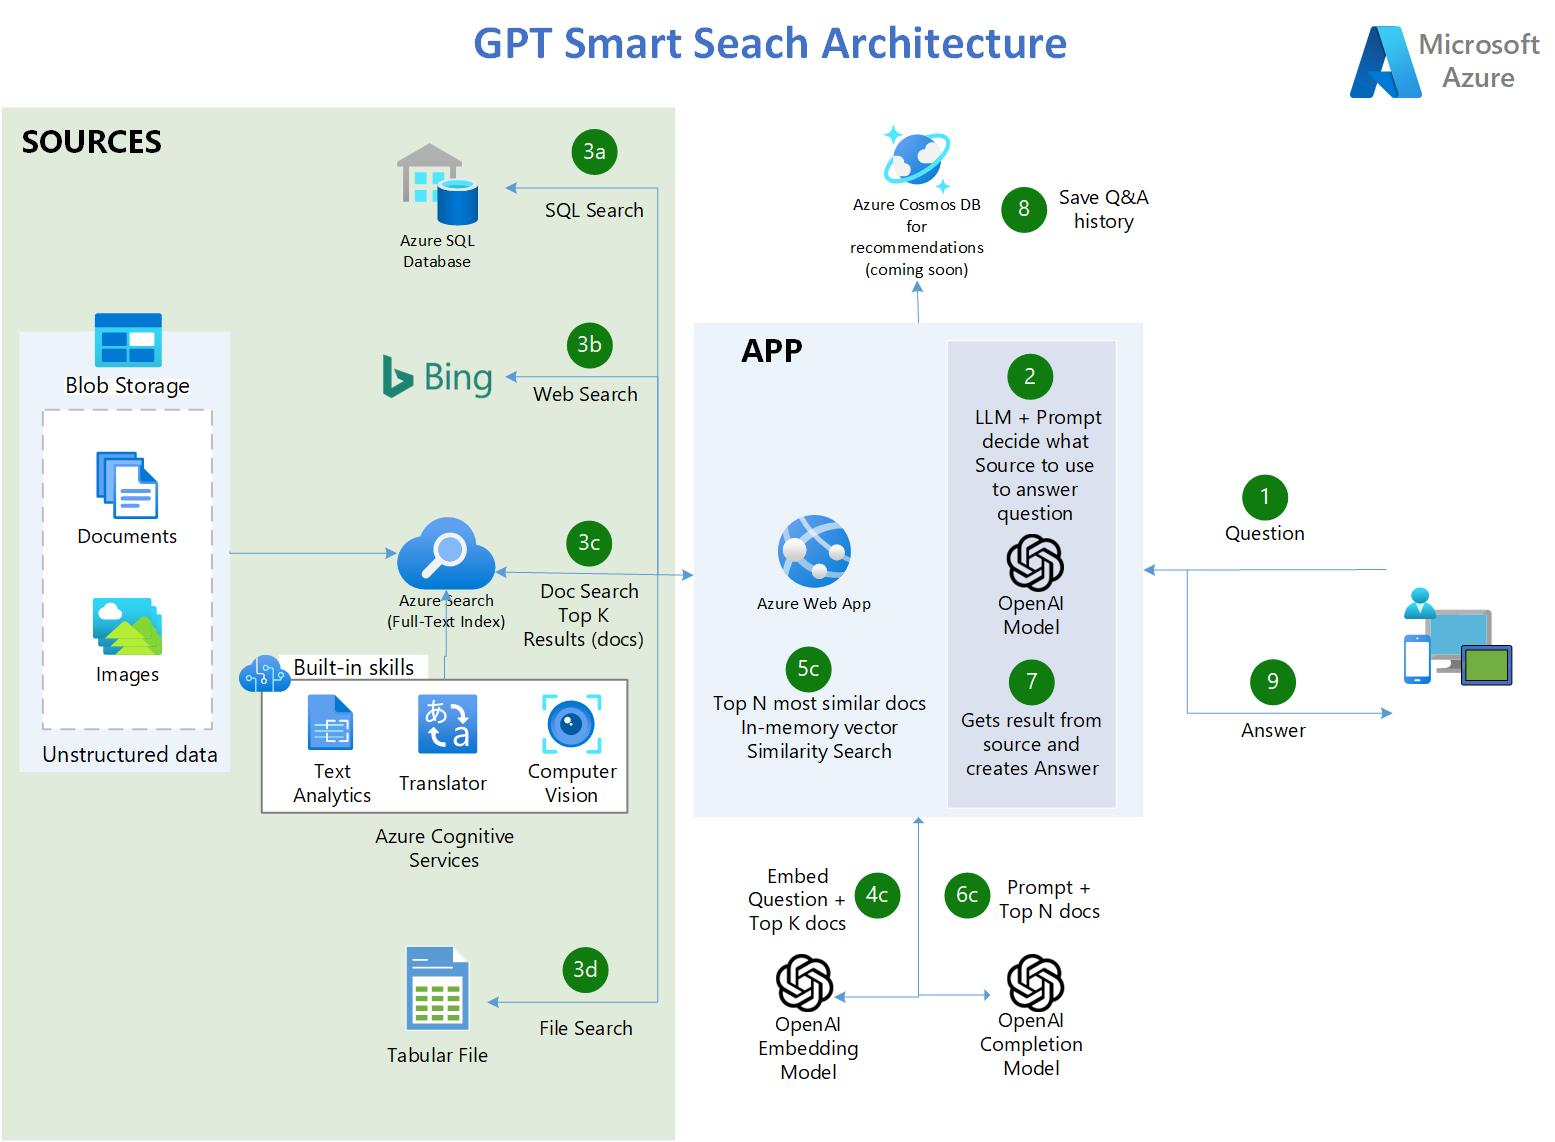
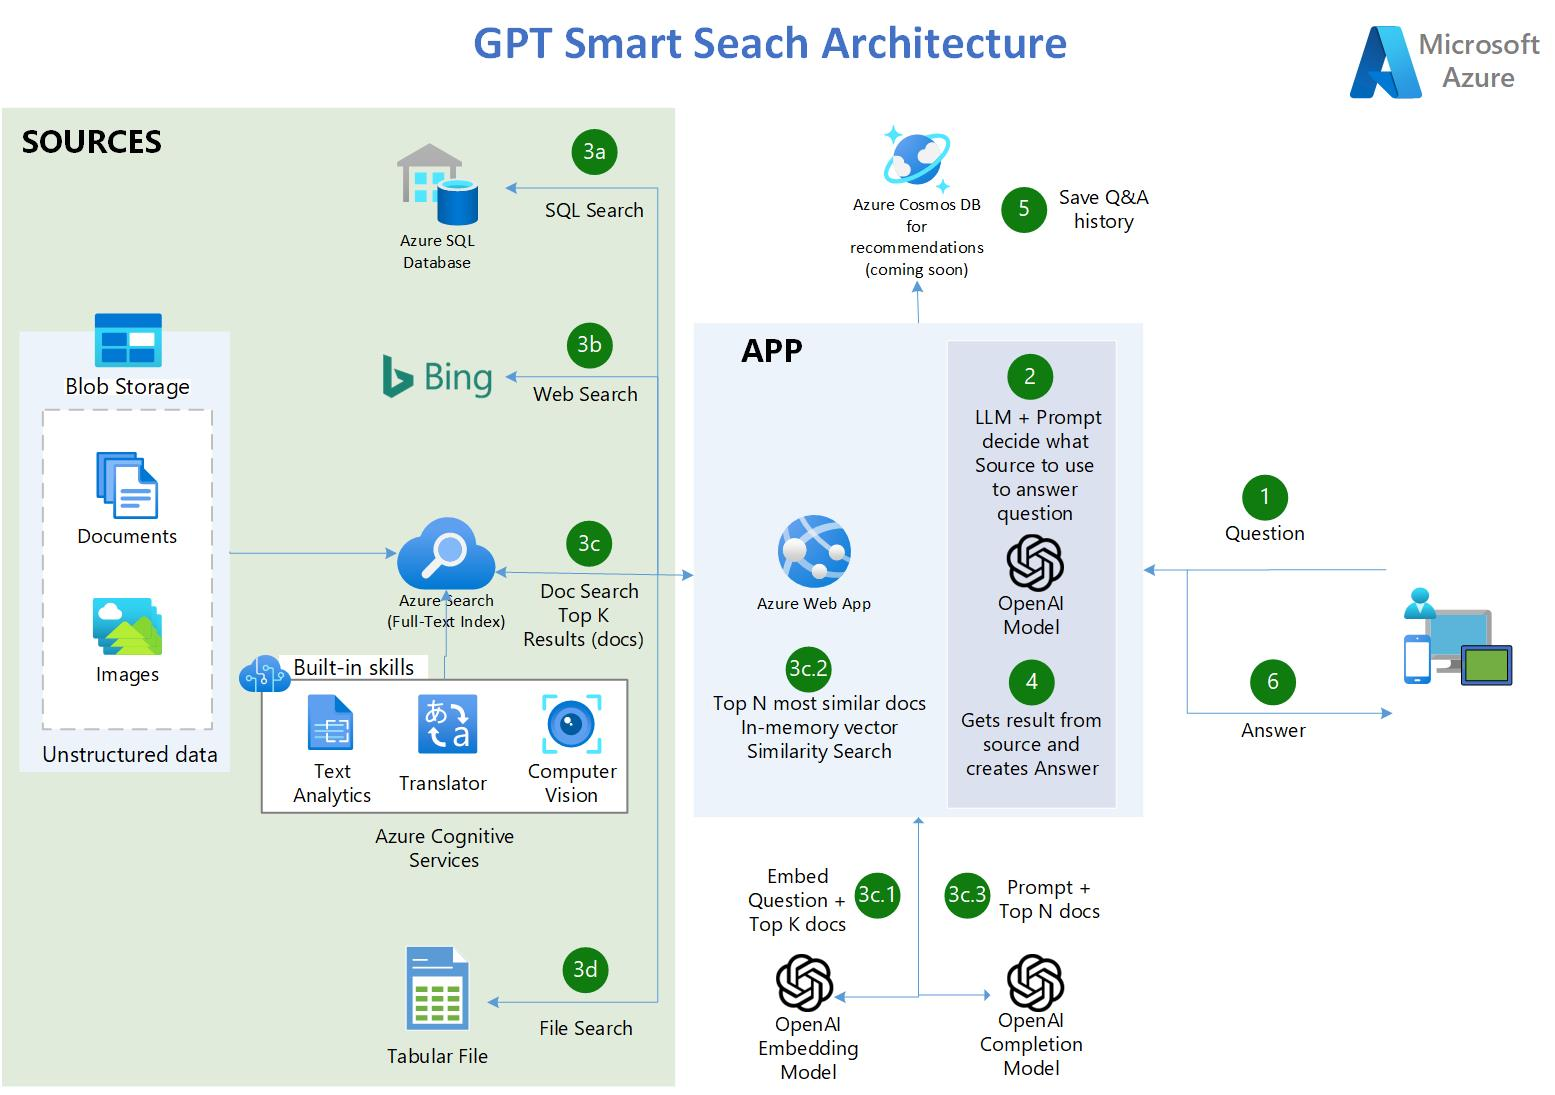
Fix Flow formating in Readme.md

diff --git a/README.md b/README.md
@@ -26,19 +26,19 @@ For more information on the 3 day workshop, click the powerpoint presentation be
 ![Architecture](./images/GPT-Smart-Search-Architecture.jpg "Architecture")
 
 ## Flow
-1- User ask a question
-2- In the App, an OpenAI LLM with a very clever prompt decides what source contains the answer to the question
-3- Four types of sources are available
-    3a - Azure SQL Database - Contains covid related stats in the US
-    3b - Azure Bing Search API - Access to web search online for current information
-    3c - Azure Cognitive Search - Contains index AI-Enriched documents from Blob Storage (10k PDFs and 52k articles)
-    3d - CSV Tabular File - Contains covid related stats in the US 
-3c.1- Uses an LLM (OpenAI or Local Bert model) to vectorize the Top K documents chunks coming from 3c
-3c.2- In-memory cosine similarity to get the top N chunks
-3c.3- Uses OpenAI GPT model to craft the response from Cog Search Engine (3c) from the question and the top N chunks
-4- Gets the results from the source and craft the answer
-5- Save the tuple (Question and Answer) to CosmosDB to keep history
-6- Deliver the answer to the user
+1. User ask a question
+2. In the App, an OpenAI LLM with a very clever prompt decides what source contains the answer to the question
+3. Four types of sources are available
+   * 3a. Azure SQL Database - Contains covid related stats in the US
+   * 3b. Azure Bing Search API - Access to web search online for current information
+   * 3c. Azure Cognitive Search - Contains index AI-Enriched documents from Blob Storage (10k PDFs and 52k articles)
+      * 3c.1. Uses an LLM (OpenAI or Local Bert model) to vectorize the Top K documents chunks coming from 3c
+      * 3c.2. In-memory cosine similarity to get the top N chunks
+      * 3c.3. Uses OpenAI GPT model to craft the response from Cog Search Engine (3c) combining the question and the top N chunks
+    * 3d. CSV Tabular File - Contains covid related stats in the US
+5. Gets the result from the source and craft the answer
+6. Save the tuple (Question and Answer) to CosmosDB to keep history
+7. Deliver the answer to the user
 
 ---
 ## Demo
